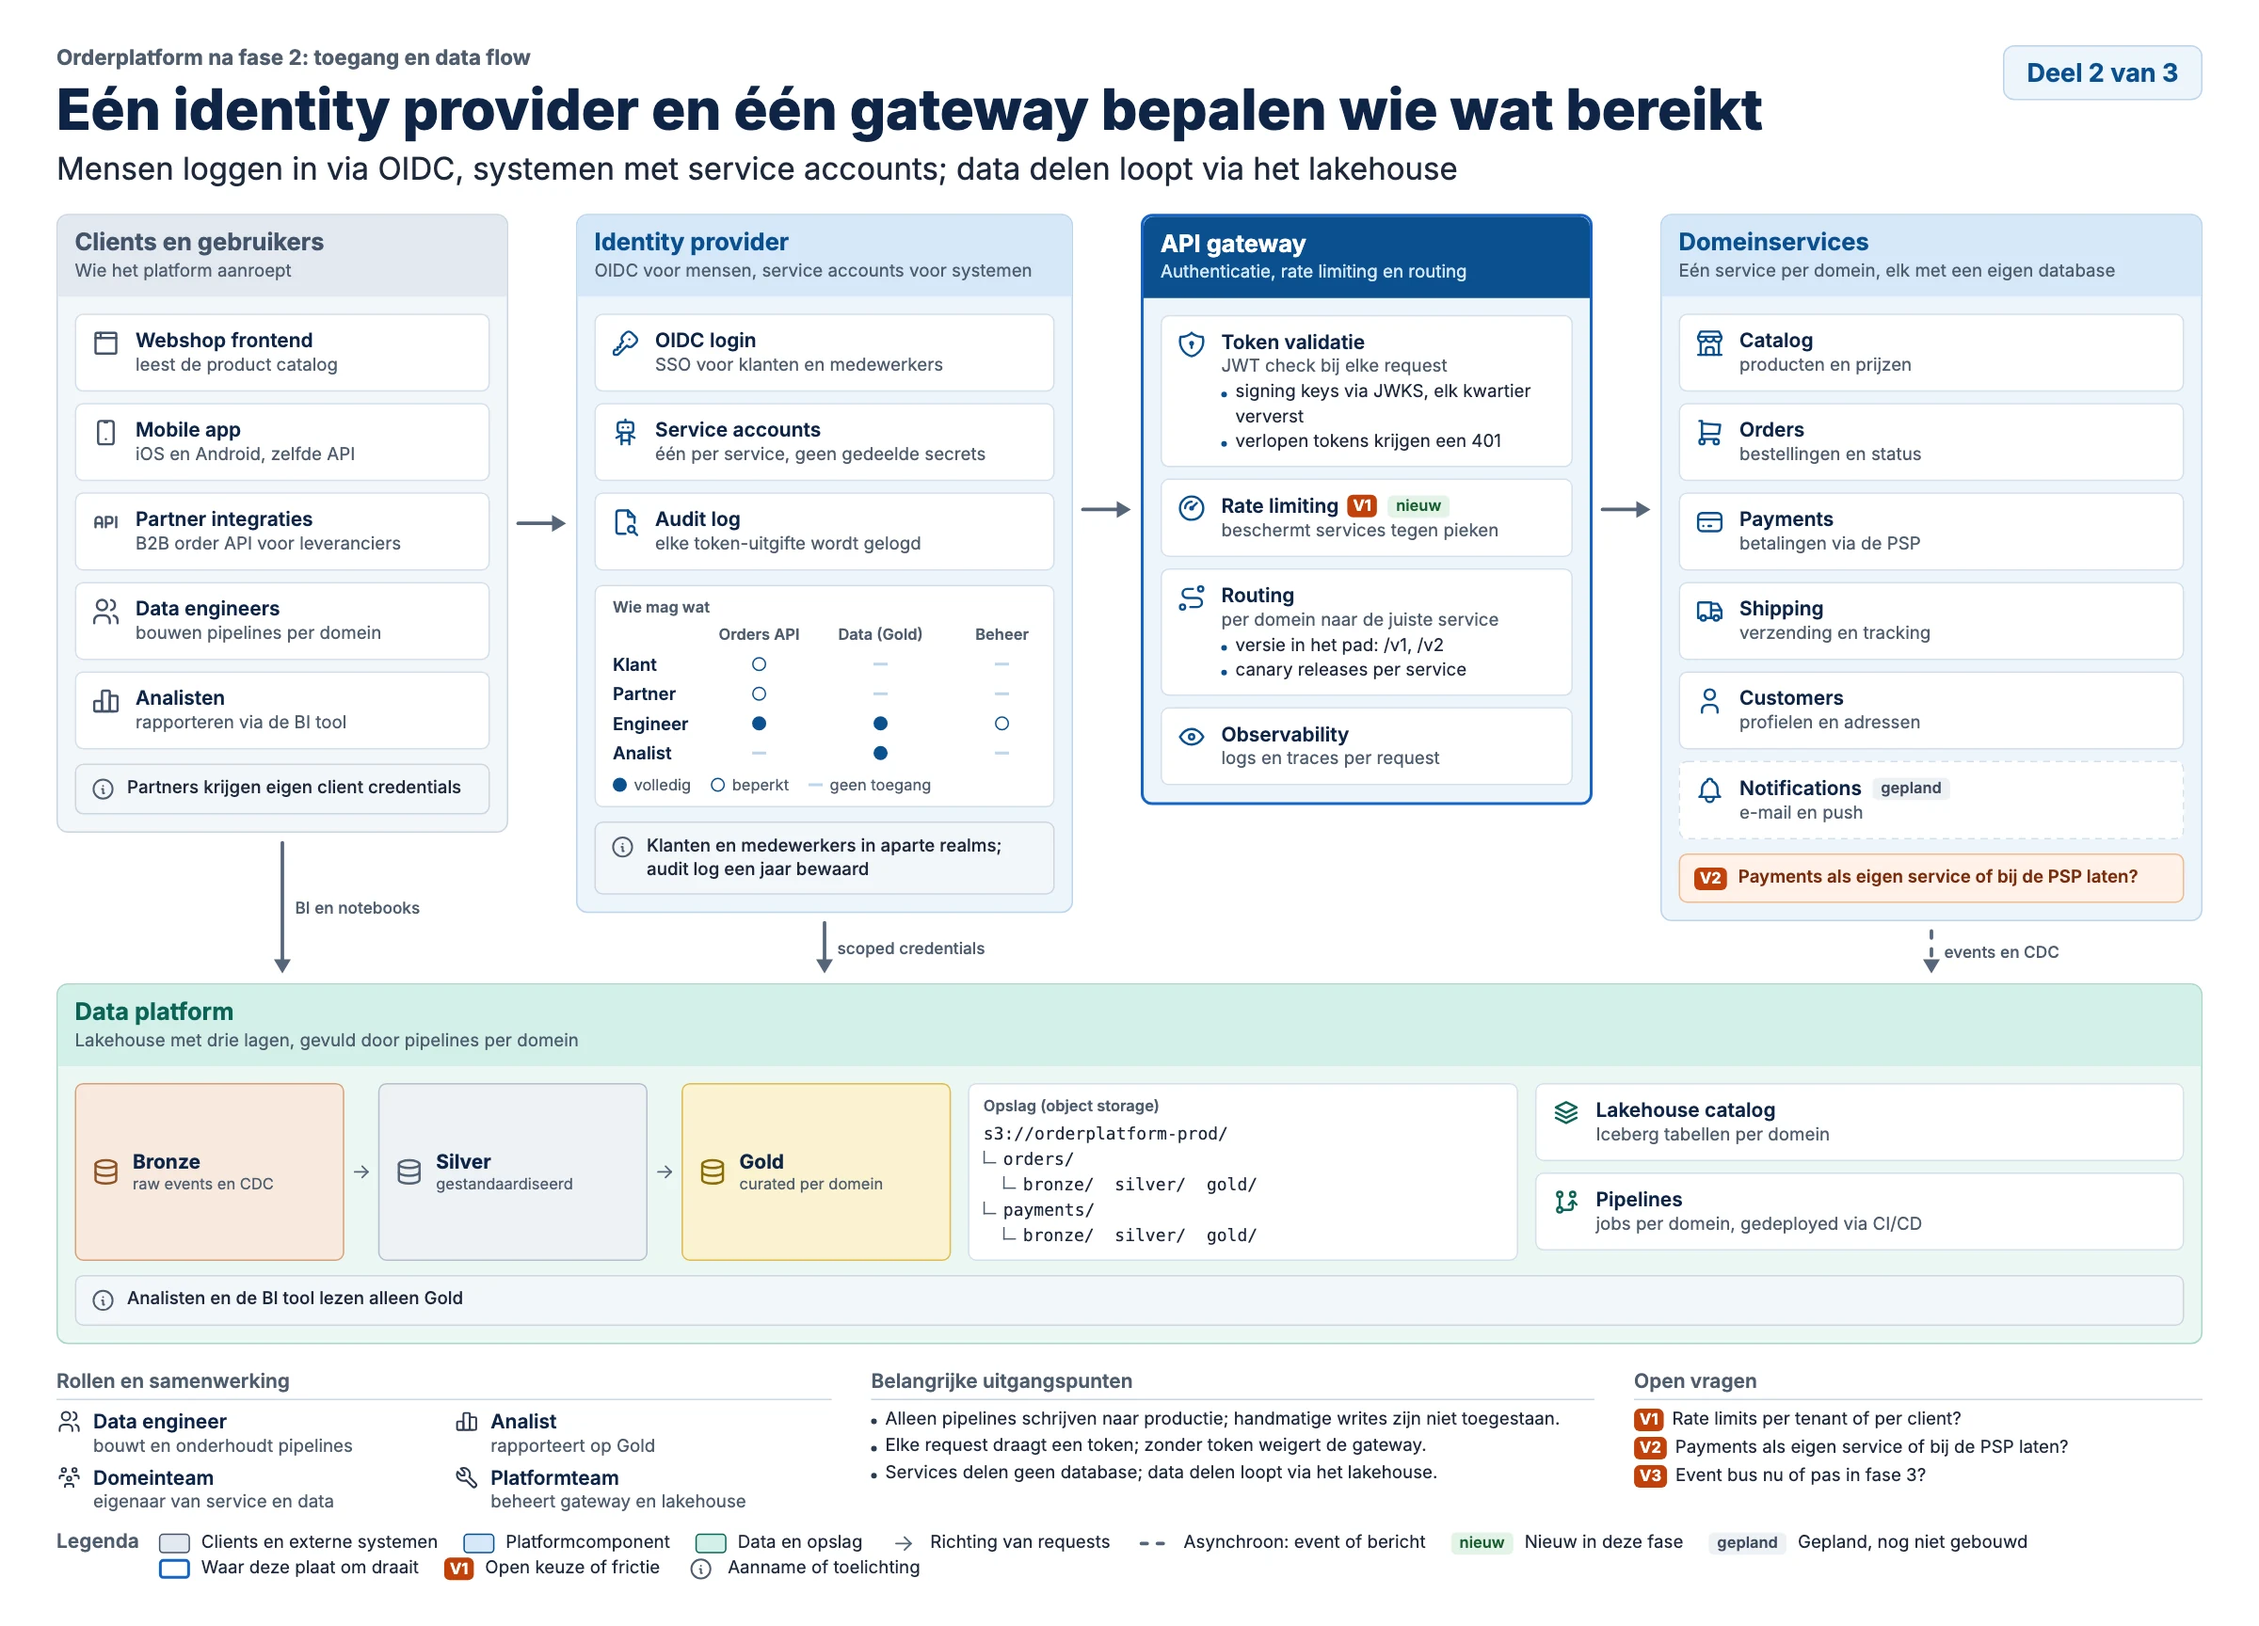
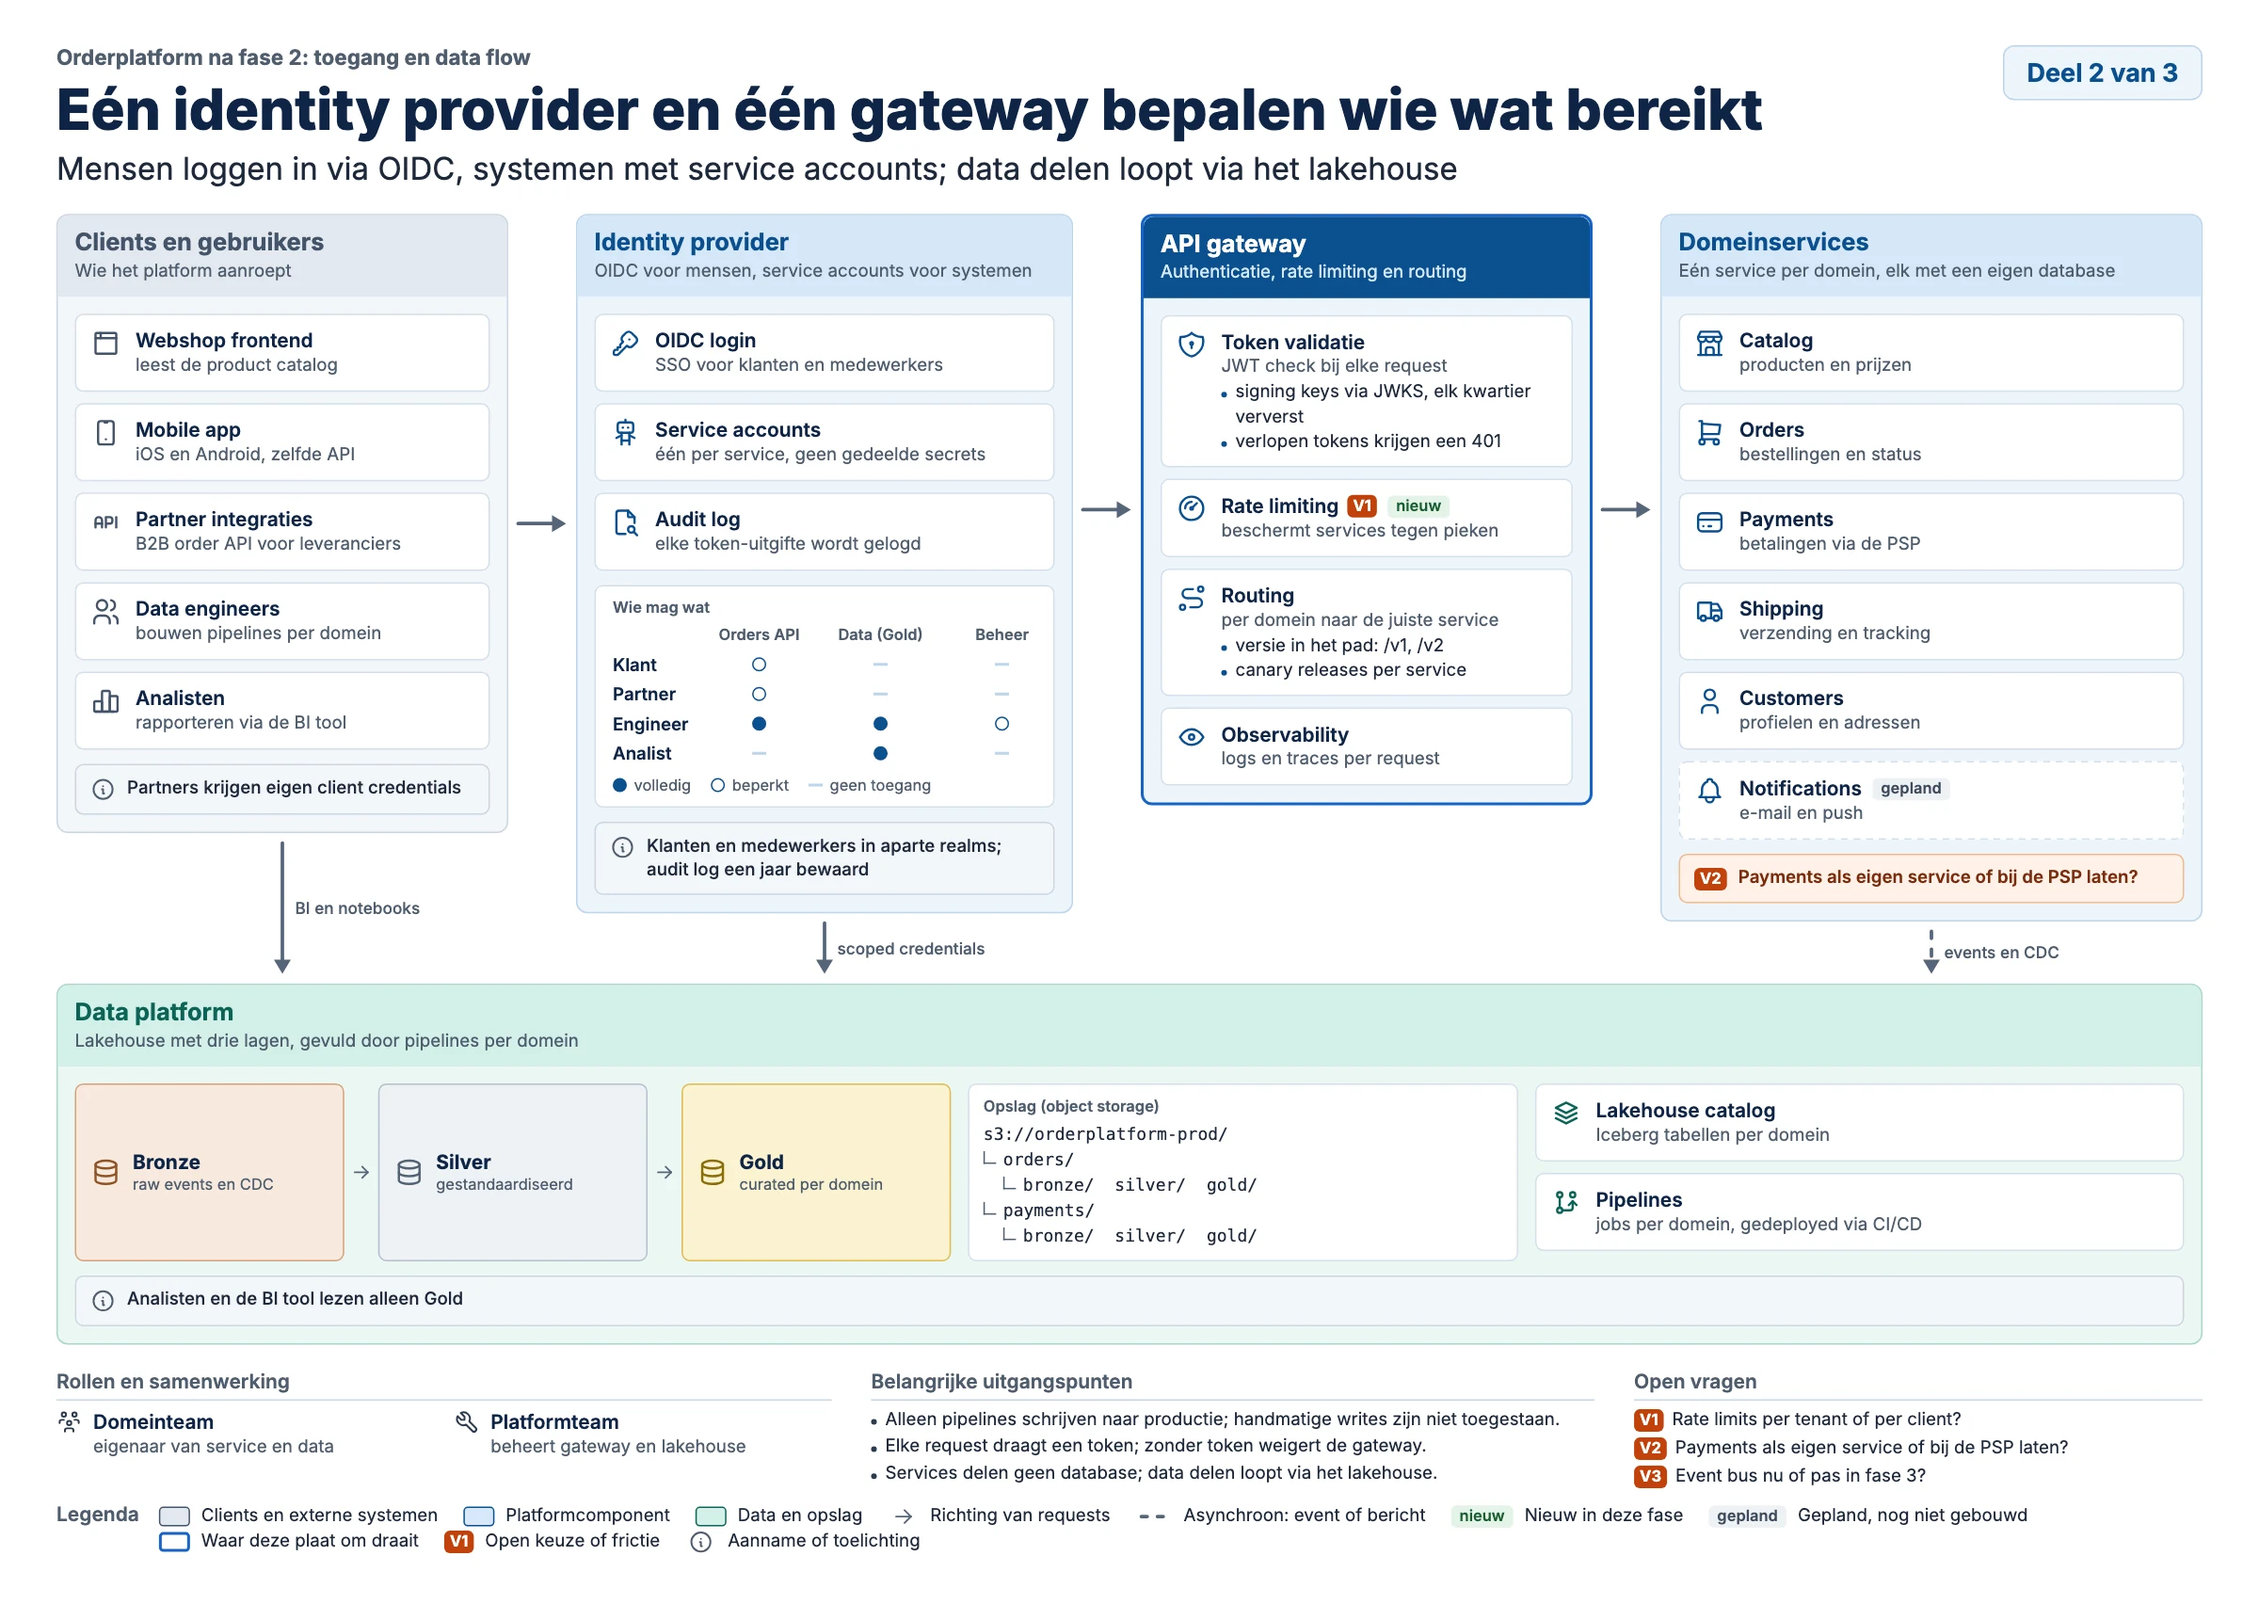
Warn at the footer share the review question names
footer-share warned at 15% while review question 6, and the eval judge,
call a footer over an eighth a defect, so plates at 13 to 15% passed
lint and failed review. It now warns above 12.5%, except for a footer
of a line or two (96 px), which on a short plate has nothing left to
cut. The hero plate's roles panel drops the two roles its body already
shows.

diff --git a/schemantic/js/lint.js b/schemantic/js/lint.js
@@ -128,13 +128,14 @@ schemantic.lint = (cfg) => {
   // Footer: context for the body, so it stays a small share of the plate
   const footer = plate.querySelector('[data-kind="footer"]');
   if (footer) {
-    const share = (rel(footer).b - rel(footer).t) / P.height;
-    if (share > cfg.footerShare)
+    const tall = rel(footer).b - rel(footer).t;
+    const share = tall / P.height;
+    if (share > cfg.footerShare && tall > cfg.footerFloor)
       add(
         "warning",
         "footer-share",
         "footer",
-        `takes ${Math.round(share * 100)}% of the plate's height; keep it under ${Math.round(cfg.footerShare * 100)}%`,
+        `takes ${Math.round(share * 100)}% of the plate's height; keep it under ${cfg.footerShare * 100}%`,
       );
   }
 

diff --git a/schemantic/lint.py b/schemantic/lint.py
@@ -18,8 +18,11 @@ VOID_ERROR_PX = 160
 # read as holes: name-only cards 40 px apart do, cards with notes and bullets 47 px apart do not.
 SPREAD_SHARE = 0.75
 SPREAD_FLOOR_PX = 32
-# The footer is context; above this share of the plate's height it competes with the body (review question 6).
-FOOTER_SHARE = 0.15
+# The footer is context; above this share of the plate's height it competes with the body (review question 6). A
+# footer of a line or two of principles and questions with the legend is about FOOTER_FLOOR_PX tall and passes on any
+# plate, since on a short plate there is nothing left to cut.
+FOOTER_SHARE = 0.125
+FOOTER_FLOOR_PX = 96
 # Cards stacked in one column at least this wide, whose text fills less than this share of them, leave half a card
 # empty: they should flow into columns.
 WIDE_CARD_PX = 560
@@ -140,5 +143,5 @@ def dom_lint(page, segs: list[dict], slide: bool = False) -> dict:
     """{issues, density, voids} for the plate in `page`, with the routed connectors in `segs`."""
     return call(page, "lint", {"floor": SLIDE_FLOOR_PX if slide else TYPE_FLOOR_PX, "segs": segs,
                                "voidWarn": VOID_WARN_PX, "voidError": VOID_ERROR_PX, "spreadShare": SPREAD_SHARE,
-                               "spreadFloor": SPREAD_FLOOR_PX, "footerShare": FOOTER_SHARE,
+                               "spreadFloor": SPREAD_FLOOR_PX, "footerShare": FOOTER_SHARE, "footerFloor": FOOTER_FLOOR_PX,
                                "wideCard": WIDE_CARD_PX, "cardFill": CARD_FILL})

diff --git a/tests/test_spec.py b/tests/test_spec.py
@@ -208,10 +208,10 @@ def test_flags_are_numbered_and_reach_the_footer(example):
 
 def test_a_flag_on_a_footer_context_card_is_shown_and_asked(example):
     from schemantic.outline import markdown
-    example["footer"]["context"]["cards"][3]["flag"] = {"kind": "warning", "text": "Wie beheert de lakehouse catalog?"}
-    assert sp.flags(example)[-1] == {"card": "footer.context.card3", "kind": "warning",
+    example["footer"]["context"]["cards"][1]["flag"] = {"kind": "warning", "text": "Wie beheert de lakehouse catalog?"}
+    assert sp.flags(example)[-1] == {"card": "footer.context.card1", "kind": "warning",
                                      "text": "Wie beheert de lakehouse catalog?", "label": "V3"}
-    assert sp.open_questions(example)[2]["id"] == "footer.context.card3"  # after the body's questions, before extra
+    assert sp.open_questions(example)[2]["id"] == "footer.context.card1"  # after the body's questions, before extra
     assert "- Platformteam — beheert gateway en lakehouse [V3]" in markdown(example)
     assert errors(example) == []
 

diff --git a/schemantic/findings.py b/schemantic/findings.py
@@ -126,7 +126,7 @@ CHECKS: dict[str, Check] = {
                         "fewer or shorter cards above it in the rail, a later layer for one of them, or no layer for "
                         "cards that concern every layer",
                         "Shorten the rail cards above it, or drop `layer` from a card that concerns every layer."),
-    "footer-share": Check("layout", "the footer takes more than 15% of the plate's height (warning)",
+    "footer-share": Check("layout", "the footer takes more than an eighth (12.5%) of the plate's height, and more than a line or two (warning)",
                           "fewer principles (three that a team could check), shorter open questions, no context panel "
                           "unless the roles matter to the message; the footer is context for the body",
                           "Cut the footer: keep three principles, shorten the questions, or drop the context panel."),

diff --git a/references/lint-fixes.md b/references/lint-fixes.md
@@ -48,7 +48,7 @@ Every finding names an element id (`gateway`, `services.card2`, `flows/3`, `foot
 | `arrow-crossing` | an arrow crosses another arrow at a right angle | connect a card instead of its panel, or the other way round; swap the two panels so the arrows run side by side; drop a flow the message does not need |
 | `print-size` | on paper the plate is scaled down to fit the sheet, and its smallest text would print below 6 pt | print on a3-landscape, or cut content so the plate is shorter; a4-landscape suits a plate of a few panels |
 | `rail-layer` | a rail card cannot sit level with the layer it names (warning) | fewer or shorter cards above it in the rail, a later layer for one of them, or no layer for cards that concern every layer |
-| `footer-share` | the footer takes more than 15% of the plate's height (warning) | fewer principles (three that a team could check), shorter open questions, no context panel unless the roles matter to the message; the footer is context for the body |
+| `footer-share` | the footer takes more than an eighth (12.5%) of the plate's height, and more than a line or two (warning) | fewer principles (three that a team could check), shorter open questions, no context panel unless the roles matter to the message; the footer is context for the body |
 | `widow` | the topic, title or subtitle ends with a single word on a line of its own | cut a few words, or rephrase so the line breaks between phrases; a headline reads best on one line |
 | `chip-length` | a chip runs to three lines | shorten it to one clear sentence |
 | `void` | a run of empty space inside a body panel (warning over 96 px, error over 160 px), below a short panel next to taller ones in its row, inside a zone frame, in an empty cell of `layout.areas`, or as a blank band under the footer or around a plate on paper (warning over 96 px); or cards a row-spanning panel spreads apart by most of a card's height | add real content (bullets, a pattern, an info chip); move the panel next to one of its height; merge it with a neighbour; let a panel span an empty cell; give a spread panel fewer rows; on paper or a fixed height, let the plate grow taller (fewer `card_columns`, another row) or use `height: fit`; never filler |

diff --git a/docs/design-notes.md b/docs/design-notes.md
@@ -54,7 +54,8 @@ No coordinates does not mean the layout designs itself. Three parts decide three
   void check (the largest empty run inside a panel) matches what reviewers see. Most voids came from a fixed canvas
   dumping its spare height into one row, which `canvas.height: fit` removes.
 - **A footer is context.** Dark header bars on footer panels drew the eye away from the body and took 17–18% of the
-  canvas; quiet labels and a legend strip bring it under 13%, and lint warns above 15% (`footer-share`).
+  canvas; quiet labels and a legend strip bring it under 13%, and lint warns above an eighth (`footer-share`), the
+  share the review question names, unless the footer is only a line or two and the plate is short.
 - **One loud place.** With every header filled in its role's dark colour, four of seven plates were a wall of navy
   and nothing led the eye; the focus only stood out because setting it quietened the rest. Quiet headers are now the
   default and a filled header is what a focus (or a hub) earns. The same review moved the subtitle out of accent

diff --git a/CHANGELOG.md b/CHANGELOG.md
@@ -81,6 +81,10 @@ All notable changes to this project. The format follows [Keep a Changelog](https
   now use sequence, so their arrows run left to right instead of back against the periods.
 
 ### Changed
+- `footer-share` warns above an eighth of the plate's height (12.5%), the share review question 6 names; it warned
+  at 15%, so the eval judge failed plates at 13 to 15% that lint passed. A footer of a line or two (96 px) passes on
+  any plate: on a short plate there is nothing left to cut. The hero plate's roles panel drops the two roles its
+  body already shows, to stay under.
 - Grouped findings: the report opens with `summary`, one line per check (errors first, in the order found) with its
   count and hint, and its first line is the fix to make first. A hint repeated by the same check is given once, on
   the check's first finding. A placeholder's detail is just the text left (`still a placeholder: '...'`). A fresh
